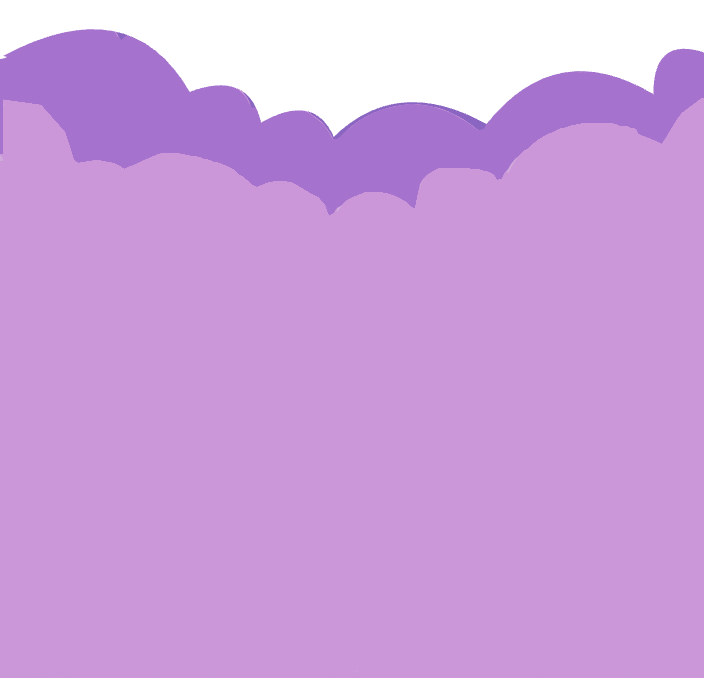
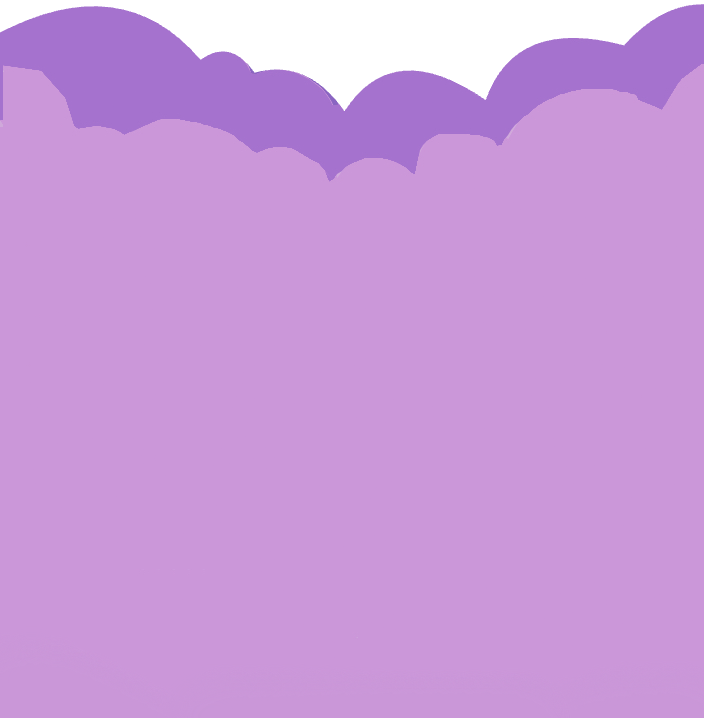
more styles again?

Changed region(s): [[0.0, 0.0, 1.0, 0.3097], [0.0, 0.1858, 0.0312, 0.2168]]

diff --git a/app/sharedComponents/TimerDateTimePickerDrawer.tsx b/app/sharedComponents/TimerDateTimePickerDrawer.tsx
@@ -6,10 +6,8 @@ import { ImageBackground, Platform, StyleSheet, View } from 'react-native';
 import {
   Drawer,
   DrawerBackdrop,
-  DrawerBody,
   DrawerCloseButton,
   DrawerContent,
-  DrawerFooter,
   DrawerHeader,
 } from '@/components/ui/drawer';
 import { CloseIcon, Icon } from '@/components/ui/icon';
@@ -58,44 +56,49 @@ const TimerDateTimePickerDrawer: React.FC<TimerDateTimePickerDrawerProps> = ({
   };
 
   return (
-    <Drawer isOpen={isOpen} onClose={onClose} anchor="bottom" size="md">
+    <Drawer isOpen={isOpen} onClose={onClose} anchor="bottom" size="lg">
       <DrawerBackdrop className="bg-black/60" />
-      <DrawerContent className="border-t border-white/20 bg-transparent rounded-t-2xl p-0 overflow-hidden">
+      <DrawerContent className="border-white/0 bg-transparent p-0 overflow-hidden">
         <ImageBackground
           source={DATE_PICKER_BG}
           resizeMode="cover"
           style={styles.background}
         >
-          <DrawerHeader>
+
+
+          <View style={styles.centeredContent}>
+          <DrawerHeader className="px-6 pt-6" style={{paddingTop: "0%"}}>
             <Heading size="lg" className="text-white font-bold">
               {title}
             </Heading>
             <DrawerCloseButton className="p-1">
-              <Icon as={CloseIcon} className="text-white" size="md" />
+              <Icon as={CloseIcon} className="text-white" size="xl" />
             </DrawerCloseButton>
           </DrawerHeader>
-
-          <DrawerBody
-            className="py-2 mb-4"
-            contentContainerStyle={{ alignItems: 'center' }}
-          >
-            <View className="w-full items-center bg-transparent">
+            <View style={styles.pickerScale}>
               <DateTimePicker
                 value={value}
                 mode={resolvedMode}
                 display={Platform.OS === 'ios' ? 'spinner' : 'default'}
                 onChange={handlePickerChange}
                 themeVariant="dark"
+                textColor="#ffffff"
+                style={styles.picker}
                 maximumDate={mode === 'date' ? new Date() : undefined}
               />
             </View>
-          </DrawerBody>
 
-          {Platform.OS === 'ios' ? (
-            <DrawerFooter className="justify-center pb-8">
-              <TimerOutlineButton label="Done" onPress={onClose} variant="primary" />
-            </DrawerFooter>
-          ) : null}
+            {Platform.OS === 'ios' ? (
+              <View style={styles.doneButton}>
+                <TimerOutlineButton
+                  label="Done"
+                  onPress={onClose}
+                  variant="solid"
+                  size="xl"
+                />
+              </View>
+            ) : null}
+          </View>
         </ImageBackground>
       </DrawerContent>
     </Drawer>
@@ -105,10 +108,30 @@ const TimerDateTimePickerDrawer: React.FC<TimerDateTimePickerDrawerProps> = ({
 const styles = StyleSheet.create({
   background: {
     width: '100%',
-    padding: 24,
-    borderTopLeftRadius: 16,
-    borderTopRightRadius: 16,
-    overflow: 'hidden',
+    height: '100%',
+  },
+  centeredContent: {
+    flex: 1,
+    width: '100%',
+    // alignItems: 'center',
+    justifyContent: 'center',
+    paddingHorizontal: 24,
+    paddingBottom: 32,
+  },
+  pickerScale: {
+    width: '100%',
+    alignItems: 'center',
+    justifyContent: 'center',
+    transform: [{ scale: 1.15 }],
+  },
+  picker: {
+    width: '100%',
+    height: 216,
+  },
+  doneButton: {
+    width: '100%',
+    marginTop: 36,
+    alignItems: 'center',
   },
 });
 